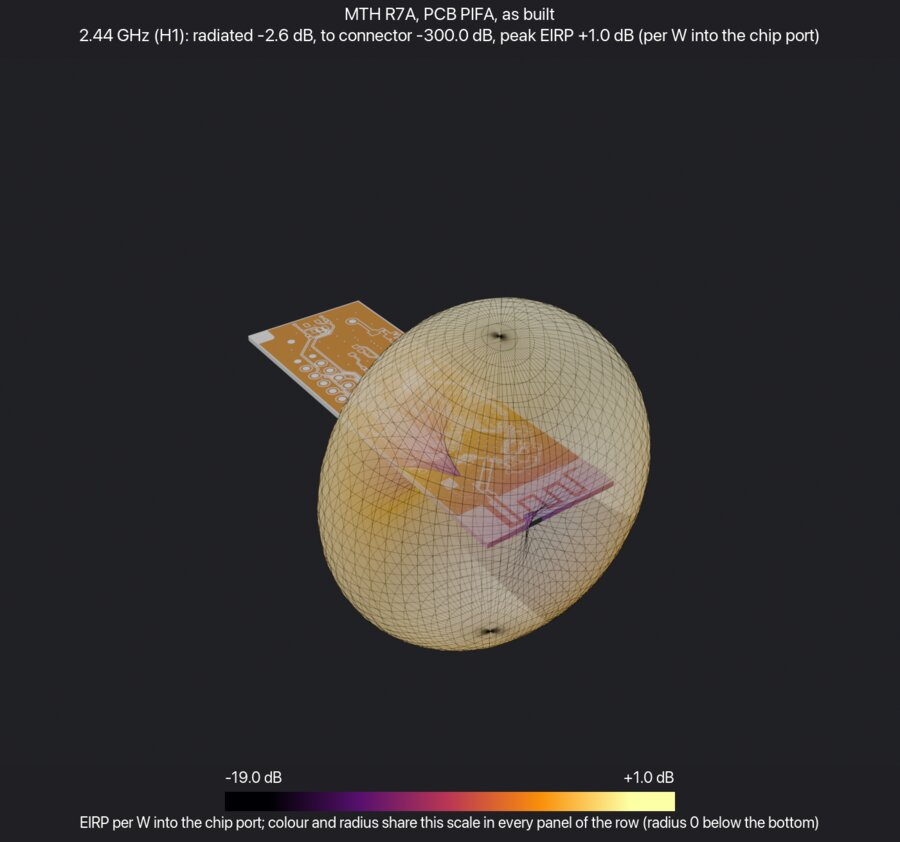
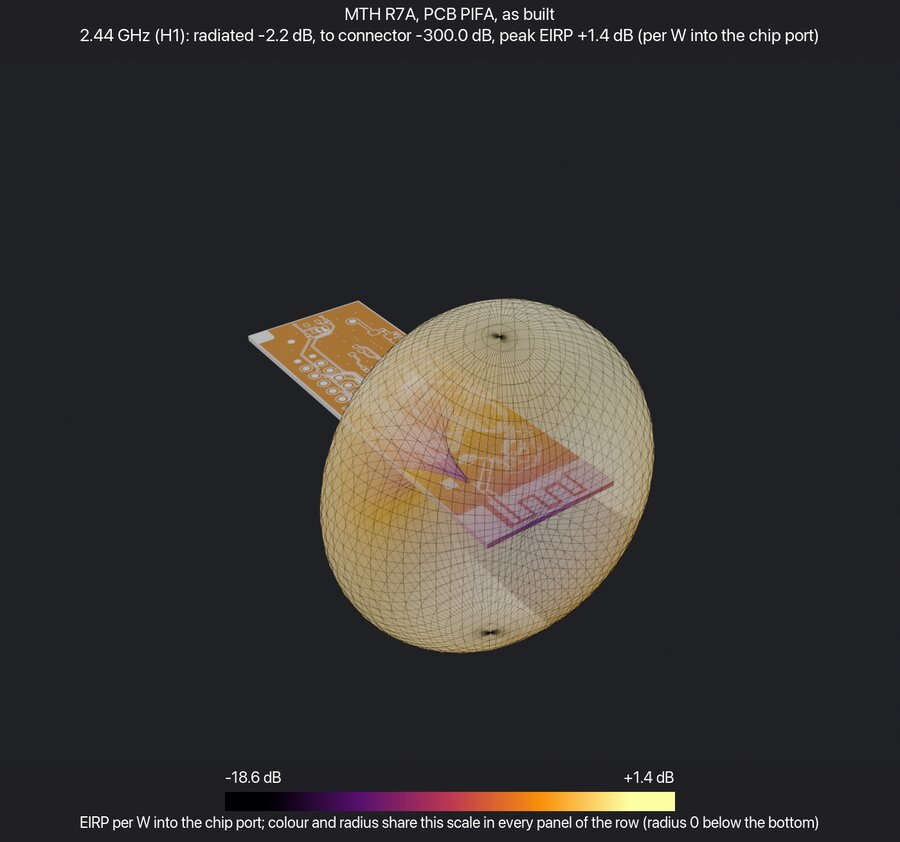
docs: MTH antenna from a 7-port re-run with the open end resolved
Re-ran the MTH R7A board with the fine ROI covering the whole PIFA, sub-cell
edge corrections and static mesh refinement (claude/fieldsolve-refine-octree
61a45cb), plus a 0.035 mm one-port mesh check. The antenna is about 50 ohm
and resonates near 2.45 GHz. As built scores -2.55 dB worst; the old fix
(L5 0R + C20 0.5p) is worse than as built. The cheapest fix is C59 0.6 pF
and C60 0.5 pF (-1.39 dB worst), the best two-part change on both meshes.
New polar and 3-D far-field plots; ladder_retune.py takes EM and OUT from
the environment.

diff --git a/tools/ladder_retune.py b/tools/ladder_retune.py
@@ -4,7 +4,8 @@ edit EM, PORT, CHOICES and BASE for another board.
 
 Run it from a working directory holding the EM run (EM below), Nordic's target network
 (nordic_ref_network.s2p) and Murata's S-parameter libraries unpacked as murata_sparams/lib_grm and
-murata_sparams/lib_lqg. FIELDSOLVE points at the binary (default: fieldsolve on PATH).
+murata_sparams/lib_lqg. FIELDSOLVE points at the binary (default: fieldsolve on PATH); EM at the EM run's
+Touchstone file (default mth7_board/sparams.s7p); OUT names the results file.
 
 Score per frequency: (1 - |G_t|^2) * P_rad / P_in, where G_t is the power-wave reflection against the chip's
 design load (Nordic's network, 35 - j35 ohm) and P_rad / P_in the share of the power entering the chip pin
@@ -15,7 +16,7 @@ that is radiated (ladder + antenna losses). The objective is the worst of 2.40 /
 import glob, json, math, os, random, subprocess, sys
 
 FS = os.environ.get('FIELDSOLVE', 'fieldsolve')
-EM = 'mth7_board/sparams.s7p'
+EM = os.environ.get('EM', 'mth7_board/sparams.s7p')
 PORT = 'CHIP'
 GRM = 'murata_sparams/lib_grm'; LQG = 'murata_sparams/lib_lqg'
 
@@ -128,5 +129,5 @@ if __name__ == '__main__':
         results.append((s[0], c, s))
         show(f'start {i}', c, s)
     results.sort(key=lambda x: -x[0])
-    json.dump([{'score_db': r[0], 'parts': r[1], 'per_f': r[2][1], 'harm': r[2][2]} for r in results], open('ladder_retune_results.json', 'w'), indent=1)
+    json.dump([{'score_db': r[0], 'parts': r[1], 'per_f': r[2][1], 'harm': r[2][2]} for r in results], open(os.environ.get('OUT', 'ladder_retune_results.json'), 'w'), indent=1)
     print(f'{calls[0]} cosim calls, {len(cache)} candidates')

diff --git a/docs/mth-antenna-findings.md b/docs/mth-antenna-findings.md
@@ -15,60 +15,57 @@ RF path, as populated:
 - **The IPEX connector U24** hangs off R69, which isn't fitted, so it isn't in the RF path.
 - **Parts:** the capacitors are Fenghua 0402CG and the inductors Murata LQG15HS.
 
-> **Correction (7 Nov 2026).** The EM run behind the first version of this note meshed the antenna's open
-> end coarsely. Its fine-mesh region started at x 145 mm, but the radiator arm runs from x 141.9 to 144.35,
-> so the open end fell in graded cells of 0.35-0.5 mm. A coarse open end acts electrically longer, so the
-> resonance came out too low.
+> **Revised (7 Nov 2026).** The first version of this note came from an EM run that meshed the antenna's
+> open end coarsely. Its fine region started at x 145 mm, but the radiator arm runs from x 141.9 to 144.35
+> mm, so the open end fell in graded cells of 0.35-0.5 mm. That made the antenna look electrically longer:
+> it seemed to resonate below 2.40 GHz, and the recommended fix (L5 → 0 Ω, C20 = 0.5 pF) was fitted to the
+> wrong antenna.
 >
-> Re-run with the fine region from x 141.5 (one port at C20, in the fast-mode work), the antenna resonates
-> near 2.43 GHz, not below 2.40 GHz. The old ROI reproduced the 7-port run to within about 1 Ω, so the ROI
-> alone explains the difference. The antenna and ladder results below have been corrected; superseded
-> values are marked.
->
-> The corrected values are still provisional:
->
-> - **No new 7-port EM run yet.** The ladder numbers come from the old 7-port result with the
->   better-resolved antenna swapped in at the feed. See [Retune](#retune) for the method and its error.
-> - **The mesh is not converged at the open end.** Going from about 0.4 mm cells to 0.1 mm to 0.05 mm
->   moved the antenna's worst-case score from −2.09 to −1.32 to −0.91 dB, and the trend is still moving.
->
-> A full 7-port re-run, with the open end resolved and a convergence check, is planned once the mesh
-> refinement work lands.
+> Everything below comes from a new 7-port run with the open end resolved and the sub-cell edge
+> corrections on. A 0.035 mm run checks the mesh. The old figures are listed under
+> [Superseded results](#superseded-results-coarse-open-end). **Don't fit the old fix: on the resolved
+> antenna it is worse than as built.**
 
 ## Summary
 
-- **The antenna is good.** In free space it resonates near 2.43 GHz, mid-band, and radiates about 87-91 %
-  of the power it accepts. (Superseded: "just below 2.40 GHz, 82-88 %".) The enclosure, solder mask and
-  battery will all pull the resonance down, so there is less length in hand for trimming than first
-  thought.
-- **The ladder isn't matched to it, but by less than first reported.** The configuration-7 values were
-  designed for a 50 Ω connector. On the PIFA (about 44 + j2 Ω at 2.44 GHz), the chip sees about 60 − j36 Ω
-  instead of its 35 − j35 Ω design load. The worst in-band case is about −2.5 to −3.1 dB, at 2.48 GHz.
-  (Superseded: 94 − j21 Ω, −4.6 dB.)
-- **The earlier fix, L5 → 0 Ω and C20 = 0.5 pF, is no longer the right one.** On the corrected antenna it
-  still helps at 2.48 GHz, but it pulls the chip impedance down to about 22-25 Ω. That makes it worse than
-  as built at 2.40 and 2.44 GHz, and its worst case is only −1.8 to −2.2 dB.
-- **Provisional cheapest fix: C59 and C60 → 0.6 pF, with L4, L5, R70 and C20 unchanged.** This is a
-  two-part value change with no new footprint. The chip sees about 61 − j37 / 43 − j36 / 30 − j28 Ω across
-  the band, close to its design load. The worst case improves from about −2.5 to −3.1 dB to about −1.0 to
-  −1.4 dB, and it beats the old fix at every frequency. Check it against the 7-port re-run before changing
-  the BOM.
-- **H2 suppression is weak.** The radiated H2 is −25.5 dB per watt into the chip pin (from the coarse
-  open-end run, not yet re-evaluated), against −29.7 dB for
+- **The antenna is good.** In free space it resonates near 2.45 GHz, mid-band, at about 50 Ω (49.6 − j2.4 Ω
+  at 2.44 GHz). It radiates 83-91 % of the power it accepts; the figure depends on the mesh (see
+  [Caveats](#caveats)). The enclosure, solder mask and battery will all pull the resonance down, so the
+  room left for trimming is smaller than first thought.
+- **The ladder transforms it too high.** The configuration-7 values were designed for a 50 Ω connector.
+  On this antenna the chip sees 57 − j51 / 59 − j39 / 73 − j37 Ω at 2.40 / 2.44 / 2.48 GHz, against its
+  35 − j35 Ω design load. The worst in-band case is −2.55 dB, at 2.48 GHz, or −2.9 dB with a real 0 Ω
+  jumper for R70.
+- **The cheapest fix: C59 → 0.6 pF and C60 → 0.5 pF**, with L4, L5 and R70 unchanged and C20 still not
+  fitted. That is two value changes and no new footprint.
+  - The chip then sees 63 − j39 / 43 − j43 / 30 − j38 Ω.
+  - The score is flat across the band: −1.39 / −1.28 / −1.21 dB, or −1.30 dB worst with a real 0 Ω
+    jumper. The worst case improves by 1.2-1.6 dB.
+  - On the finer-mesh antenna it is still the best two-part change.
+  - Cost: H2 is unchanged (−25.4 dB against −25.8) and H3 is 1.7 dB higher (−18.3 dB against −20.0).
+- **C59 0.7 pF with C60 0.6 pF is equivalent** with an ideal 0 Ω jumper (−1.37 dB worst). It drops to
+  −1.53 dB with a real one.
+- **Bigger retunes gain little.** The best search result that keeps the harmonics changes five parts for
+  the same −1.37 dB worst case. The best overall reaches −1.26 dB, but its H2 is 11 dB worse.
+- **H2 suppression is weak.** The radiated H2 is −25.8 dB per watt into the chip pin, against −29.7 dB for
   1BP as built and −49.3 dB for Nordic's reference layout. C59's ground pad is flooded into the top pour,
   the same deviation found on 1BP ([1bp-rf-findings.md](1bp-rf-findings.md)). The same fix should apply:
   an isolated return to VSS_PA. That fix hasn't been simulated here.
 - **Retune again after trimming.** The trimmed antenna in the enclosure will present a different feed
   impedance. Re-run the EM model on the trimmed copper, plus the enclosure if there is data, and repeat
-  the retune. The retune takes seconds; the EM run about 45 minutes.
+  the retune. The retune takes about a minute and the 7-port EM run about 30 minutes.
 
 ![RF section, top copper (left) and bottom (right): the diagonal ladder from the chip to R70, the PIFA feed and short above](img/mth7_rf_copper.jpg)
 
 ## Model
 
-- **The whole board** in free space, from the KiCad conversion's X2 Gerbers. 0.05 mm cells over the ROI
-  [145, 70, 159.6, 87.5], graded outside. That ROI misses the radiator's open end, x 141.9-144.35 (see
-  the correction at the top), with far field from a Huygens box in 15 mm of air.
+- **The whole board** in free space, from the KiCad conversion's X2 Gerbers, with far field from a
+  Huygens box in 15 mm of air.
+  - 0.05 mm cells over the ROI [141.5, 70, 159.6, 87.5], which takes in the whole antenna, graded
+    outside.
+  - Sub-cell edge corrections are on (`"edges": true`), as is the static mesh refinement
+    (`"mesh": {"no_slivers": true, "z_grade": 3.0}`).
+  - 12.1 M cells; all seven excitations took 30 minutes on an M3 Max.
 - **Stack-up:** one 0.73 mm FR4 core (εr 4.5, tan δ 0.015, wideband Debye fit) between 35 µm copper.
   The order notes give the finished thickness but not the laminate, so εr is assumed. Copper loss is
   included.
@@ -76,6 +73,7 @@ RF path, as populated:
   decoupling capacitors near the chip are modelled as shorts. `fieldsolve cosim` places measured parts
   on the ports: Murata GRM1555 for the Fenghua capacitors, which have no published data, and the exact
   LQG15HS inductors.
+- **Mesh check:** a one-port run at C20 at 0.035 mm (24.3 M cells), and the same at 0.05 mm.
 - **Not modelled:** solder mask, enclosure, battery. All three pull the resonance down.
 - **A solver bug was found and fixed along the way.** Every part here is rotated 45°, the chip included.
   Ports between pads that don't share a mesh line used to get a straight bridge that missed the far pad
@@ -85,19 +83,21 @@ RF path, as populated:
 
 ## The antenna alone
 
-Seen at the feed (the C20 pads), with R70 open:
+Seen at the feed (the C20 pads), with R70 and the chip open:
 
 | | 2.40 GHz | 2.44 GHz | 2.48 GHz |
 |---|---|---|---|
-| impedance | 59.8 − j8.8 Ω | 44.3 + j2.3 Ω | 33.4 + j13.2 Ω |
-| S11 (50 Ω) | −18.5 dB | −23.8 dB | −12.0 dB |
+| impedance, 0.05 mm (7-port) | 67.9 − j14.7 Ω | 49.6 − j2.4 Ω | 37.8 + j9.5 Ω |
+| S11 (50 Ω) | −14.2 dB | −32 dB | −15.1 dB |
+| radiation efficiency | 83 % | 82 % | 83 % |
+| impedance, 0.035 mm (one-port) | 74.7 − j11.2 Ω | 55.5 − j2.5 Ω | 42.1 + j7.5 Ω |
+| S11 (50 Ω) | −13.3 dB | −24.8 dB | −18.6 dB |
 | radiation efficiency | 91 % | 89 % | 87 % |
-| *superseded (open end coarse):* impedance | *37.5 + j5 Ω* | *28.5 + j16 Ω* | *21.9 + j26 Ω* |
-| *superseded:* S11 (50 Ω) | *−16.3 dB* | *−9.5 dB* | *−6.0 dB* |
-| *superseded:* radiation efficiency | *88 %* | *85 %* | *82 %* |
 
-The corrected values are from a one-port run at C20 (R70, CHIP and the ladder open), with the fine region
-from x 141.5. It is otherwise identical to the 7-port run.
+The one-port run at 0.05 mm reads 68.8 − j12.4 / 50.3 − j1.3 / 38.1 + j9.9 Ω, within about 2 Ω of the
+7-port. So the differences between the two meshes are a mesh effect, not a difference between the
+setups. The resonance (X = 0) sits near 2.45 GHz on both meshes. The finer mesh raises the resistance by
+about 6 Ω and the efficiency by up to 8 points (see [Caveats](#caveats)).
 
 ## As built, seen from the chip pin
 
@@ -107,20 +107,15 @@ antenna loss).
 
 | | 2.40 GHz | 2.44 GHz | 2.48 GHz |
 |---|---|---|---|
-| chip sees | 55 − j45 Ω | 60 − j36 Ω | 75 − j41 Ω |
-| \|Γ\| against the design load | 0.21 | 0.26 | 0.40 |
-| score | −1.1 dB | −1.5 to −1.7 dB | −2.5 to −3.1 dB |
-| *superseded:* chip sees | *68.5 − j19 Ω* | *94 − j21 Ω* | *111 − j67 Ω* |
-| *superseded:* score | *−2.0 dB* | *−3.1 dB* | *−4.6 dB* |
-
-The ranges are the two antenna-swap estimates described under [Retune](#retune).
-
-Treating R70 as a real 0 Ω jumper (about 0.4 nH) instead of an ideal short cost another 0.3-0.5 dB in the
-superseded model. This hasn't been re-evaluated.
+| chip sees | 57 − j51 Ω | 59 − j39 Ω | 73 − j37 Ω |
+| \|Γ\| against the design load | 0.26 | 0.25 | 0.38 |
+| radiated / accepted | 70 % (−1.6 dB) | 68 % (−1.7 dB) | 65 % (−1.9 dB) |
+| score | −1.9 dB | −2.0 dB | −2.6 dB |
+| score, R70 as a real 0 Ω jumper (0.4 nH) | −1.9 dB | −2.1 dB | −2.9 dB |
 
 ## Radiation pattern
 
-At 2.44 GHz the peak realized gain is +1.0 dBi, for a 50 Ω source at the chip pin. The 60 mm board is
+At 2.44 GHz the peak realized gain is +1.5 dBi, for a 50 Ω source at the chip pin. The 60 mm board is
 about half a wavelength long, so its ground currents radiate like a dipole along the board's long axis:
 
 - a near-omnidirectional ring of about −1 dBi (E_φ) in the plane across the board (x-z);
@@ -135,53 +130,9 @@ about half a wavelength long, so its ground currents radiate like a dipole along
 
 ![Far field at 2.44 GHz and at H2 and H3, on a shared scale per row](img/mth7_farfield_h1h2h3.jpg)
 
-Radiated harmonics, per watt into the chip pin (50 Ω): **H2 −25.5 dB, H3 −21.6 dB.**
-
-The pattern, gain and harmonic figures in this section are from the run with the coarse open end. The
-dipole-like board mode should not change much, but the numbers will move a little.
+Radiated harmonics, per watt into the chip pin (50 Ω), as built: **H2 −25.8 dB, H3 −20.0 dB.**
 
 ## Retune
-
-### Corrected (provisional)
-
-There is no 7-port EM run with the open end resolved yet. Instead, the old 7-port result (whose ladder
-region is meshed finely) was re-scored with the better-resolved antenna swapped in at the feed. The swap
-uses the change in antenna impedance between the old-ROI and widened-ROI one-port runs, and scales the
-antenna's radiated/accepted share the same way.
-
-There are two ways to make the swap, and neither is exact, because the antenna and ladder copper couple:
-
-- **series swap at the R70 port:** checked against the old far-field scores, it reads 0.3-0.5 dB
-  optimistic;
-- **shunt-admittance swap at the C20 node:** it reads 0-0.6 dB pessimistic.
-
-The two agree within 0.1 dB at 2.40 and 2.44 GHz and differ by up to 0.6 dB at 2.48 GHz. Both give the chip
-impedance exactly on the old model. The table gives series / shunt.
-
-| | chip sees, 2.40 / 2.44 / 2.48 GHz | 2.40 GHz | 2.44 GHz | 2.48 GHz |
-|---|---|---|---|---|
-| as built | 55 − j45 / 60 − j36 / 75 − j41 Ω | −1.1 / −1.1 dB | −1.5 / −1.7 | −2.5 / −3.1 |
-| **C59, C60 → 0.6 pF** | 61 − j37 / 43 − j36 / 30 − j28 Ω | −0.7 / −0.6 | −0.8 / −0.8 | −1.0 / −1.4 |
-| C59, C60 → 0.5 pF | 71 − j46 / 50 − j50 / 33 − j43 Ω | −0.9 / −0.8 | −1.0 / −1.0 | −0.9 / −1.3 |
-| C59 0.6 pF, C60 0.5 pF | 55 − j44 / 38 − j44 / 26 − j37 Ω | −0.6 / −0.6 | −0.8 / −0.8 | −1.0 / −1.4 |
-| 0.5p / 2.7n / 0.5p / 2.0n (four parts) | 56 − j24 / 45 − j37 / 29 − j38 Ω | −0.6 / −0.4 | −0.7 / −0.7 | −0.9 / −1.2 |
-| R70 → 1.8 pF series | 35 − j52 / 32 − j40 / 36 − j29 Ω | −1.3 / −1.2 | −1.3 / −1.2 | −1.5 / −1.8 |
-| L5 → 0 Ω | 34 − j59 / 29 − j48 / 30 − j37 Ω | −1.5 / −1.5 | −1.3 / −1.3 | −1.2 / −1.5 |
-| old fix: L5 → 0 Ω, C20 = 0.5 pF | 23 − j60 / 22 − j50 / 25 − j42 Ω | −2.2 / −1.8 | −1.8 / −1.5 | −1.5 / −1.5 |
-
-- **Why the fix changed:** the resolved antenna is close to 50 Ω and nearly real in band, not inductive.
-  The configuration-7 ladder transforms it too high, about 60 Ω real. Lighter shunt capacitors bring the
-  real part down to the design load's 35 Ω. Removing L5 now overshoots.
-- **Search:** a coordinate descent over the same part libraries (series swap) found worst cases of about
-  −0.8 to −0.9 dB, but only by changing three or four parts. Given the swap's error at 2.48 GHz, that is
-  not clearly better than the two-capacitor change.
-- **Harmonics:** not re-evaluated. The H2/H3 effect of lighter shunt capacitors needs the 7-port re-run
-  with far field.
-
-### Superseded: retune on the coarse open end
-
-The rest of this section is the original retune. It was fitted to the coarse antenna (resonance below
-2.40 GHz) and is kept for reference only.
 
 Every ladder position was varied over real part values:
 
@@ -190,48 +141,87 @@ Every ladder position was varied over real part values:
 - R70: a short, an inductor up to 4.7 nH, or a series capacitor;
 - C20: open or up to 2 pF.
 
-Each candidate was scored with `fieldsolve cosim` on the existing 7-port EM result, by the worst score
-of 2.40 / 2.44 / 2.48 GHz. The search was coordinate descent from 60 random starts plus every one- and
-two-part change from as built: about 25,000 candidates, taking seconds.
+Each candidate was scored with `fieldsolve cosim` (far field included) on the 7-port EM result, by its
+worst score over 2.40 / 2.44 / 2.48 GHz. The search was coordinate descent from 31 starts: about 13,000
+candidates in about a minute.
 
-| | 2.40 GHz | 2.44 GHz | 2.48 GHz | radiated H2 / H3 |
-|---|---|---|---|---|
-| as built | −2.0 dB | −3.1 dB | −4.6 dB | −25.5 / −21.6 dB |
-| **L5 → 0 Ω, C20 = 0.5 pF** | −1.6 | −1.4 | −1.6 | −25.9 / −21.6 |
-| same, with real 0 Ω jumpers (0.4 nH each) | −1.3 | −1.4 | −2.1 | −25.4 / −21.6 |
-| L5 → 0 Ω only | −1.3 | −1.4 | −1.8 | −24.6 / −21.6 |
-| best with harmonics no worse: 1.0p / 3.9n / 1.0p / 1.6n, R70 → 2.4 pF series, C20 1.1 pF | −1.6 | −1.4 | −1.6 | −25.1 / −21.1 |
-| best overall: 0.4p / short / 0.4p / short, R70 → 1.6 nH, C20 0.7 pF | −1.2 | −1.1 | −1.2 | −22.1 / −18.4 |
+| | chip sees, 2.40 / 2.44 / 2.48 GHz | 2.40 GHz | 2.44 GHz | 2.48 GHz | radiated H2 / H3 |
+|---|---|---|---|---|---|
+| as built | 57 − j51 / 59 − j39 / 73 − j37 Ω | −1.87 dB | −1.95 | −2.55 | −25.8 / −20.0 dB |
+| **C59 0.6 pF, C60 0.5 pF** | 63 − j39 / 43 − j43 / 30 − j38 Ω | −1.39 | −1.28 | −1.21 | −25.4 / −18.3 |
+| same, R70 as a real 0 Ω (0.4 nH) | | −1.30 | −1.22 | −1.23 | |
+| C59 0.7 pF, C60 0.6 pF | 56 − j34 / 39 − j33 / 28 − j26 Ω | −1.32 | −1.24 | −1.37 | −25.7 / −18.8 |
+| same, R70 as a real 0 Ω (0.4 nH) | | −1.28 | −1.26 | −1.53 | |
+| C59, C60 → 0.6 pF | 70 − j32 / 49 − j35 / 34 − j29 Ω | −1.53 | −1.32 | −1.26 | −25.5 / −18.3 |
+| C59, C60 → 0.5 pF | 79 − j37 / 56 − j47 / 38 − j43 Ω | −1.66 | −1.48 | −1.25 | −25.0 / −17.6 |
+| C59 0.8 pF, C60 0.7 pF | 52 − j30 / 37 − j25 / 29 − j17 Ω | −1.32 | −1.35 | −1.71 | −25.7 / −19.3 |
+| best with harmonics no worse: 0.9p / 4.3n / 0.7p / 1.2n, C20 0.3 pF | 47 − j45 / 34 − j36 / 26 − j26 Ω | −1.35 | −1.27 | −1.37 | −25.6 / −19.5 |
+| best overall: 0.5p / short / 0.4p / 3.6n, R70 → 2 pF series | 36 − j17 / 40 − j30 / 32 − j42 Ω | −1.26 | −1.19 | −1.25 | −14.6 / −17.5 |
+| L5 → 0 Ω | 39 − j66 / 32 − j52 / 32 − j41 Ω | −2.40 | −1.90 | −1.50 | −24.7 / −20.1 |
+| old fix: L5 → 0 Ω, C20 = 0.5 pF | 24 − j65 / 23 − j54 / 25 − j45 Ω | −3.03 | −2.37 | −1.75 | −26.2 / −19.9 |
 
-- **Why it works:** at 2.44 GHz the PIFA's feed is already inductive, and L5 added more inductance in
-  series. Removing it fixes most of the match, and C20 trims it across the band.
-- **It's robust:** C20 anywhere from 0.4 to 0.6 pF lands within 0.1-0.2 dB.
-- **What's left:** after the fix, about 1.2-1.4 dB is lost between the chip pin and radiation. About
-  0.7 dB of that is the antenna and board.
-- **Further retuning isn't worth it:** retunes beyond about −1.6 dB worst case trade H2 for ~0.4 dB.
+- **Why lighter shunt capacitors:** the antenna is close to 50 Ω and nearly resistive in band. The
+  configuration-7 ladder transforms it up to about 60-70 Ω real. Smaller shunt capacitors bring the real
+  part down to the design load's 35 Ω. Removing L5 instead leaves too much negative reactance, and adding
+  C20 makes that worse.
+- **Robust to the mesh:** the 0.035 mm antenna was swapped into the 7-port at the feed. This
+  approximation is good to a few tenths of a dB for a change this small; it reads 0.2-0.4 dB optimistic
+  against the direct scores. On that antenna:
+  - as built scores −2.0 to −2.5 dB worst;
+  - C59 0.6 pF with C60 0.5 pF scores −0.8 to −1.2 dB, still the best two-part change;
+  - C59 0.7 pF with C60 0.6 pF scores −1.0 to −1.3 dB;
+  - the old fix stays worse than as built at 2.40 GHz.
+- **What's left:** after the fix, about 1.1-1.2 dB is lost between the chip pin and radiation. About
+  0.8 dB of that is the antenna and board (0.4 dB on the finer mesh).
 
 ## Caveats
 
 - **Free-space values only.** No enclosure, solder mask or battery; the antenna will also be trimmed.
-- **The open end's mesh isn't converged** (see the correction at the top), and the corrected ladder
-  numbers use an antenna swap rather than a 7-port run.
+- **The mesh isn't fully converged.**
+  - From 0.05 to 0.035 mm, the antenna's resistance rises by about 6 Ω and its radiated share at
+    2.40 GHz by up to 8 points.
+  - The efficiency difference appears only with the edge corrections on: at 0.05 mm without them, the
+    antenna reads 91 / 89 / 87 %, the same as 0.035 mm with them. So the edge-corrected 0.05 mm run may
+    overstate copper loss near the antenna. The absolute scores above may then be 0.3-0.5 dB
+    pessimistic.
+  - The ranking of the ladder options is the same on both meshes.
 - **The Fenghua capacitors are modelled with Murata data.**
 - **The chip's optimum load** is taken as Nordic's measured target. How far off it is in band is
   examined in [1bp-rf-findings.md](1bp-rf-findings.md).
 - **The harmonic levels** are per watt into a 50 Ω port. The chip's real harmonic source impedance is
   unknown, and the model's levels near the nulls are mesh-sensitive by a few dB.
 
+## Superseded results (coarse open end)
+
+From the first EM run, with the fine region starting at x 145 mm, so the antenna's open end was coarse.
+Kept for reference only.
+
+| | 2.40 GHz | 2.44 GHz | 2.48 GHz |
+|---|---|---|---|
+| antenna alone | 37.5 + j5 Ω | 28.5 + j16 Ω | 21.9 + j26 Ω |
+| as built, chip sees | 68.5 − j19 Ω | 94 − j21 Ω | 111 − j67 Ω |
+| as built, score | −2.0 dB | −3.1 dB | −4.6 dB |
+| L5 → 0 Ω, C20 = 0.5 pF (the old recommendation), score | −1.6 dB | −1.4 dB | −1.6 dB |
+
+On that antenna the feed looked inductive (resonance below 2.40 GHz), so removing L5 and adding C20 seemed
+to help. That conclusion doesn't hold for the resolved antenna. A provisional version of this note
+estimated the correction by swapping the resolved antenna into this run. The direct 7-port run above
+replaces it, and it reached the same recommended direction.
+
 ## Reproducing
 
-- **EM:** a `fieldsolve run` spec with `"gerbers"` the KiCad conversion's `fabrication/gerbers`,
-  `"coords": "kicad"`, `"extent": "board"`, ROI `[141.5, 70, 159.6, 87.5]` (the first run used x0 = 145,
-  which leaves the antenna's open end coarse), cell 0.05, air 15 mm,
-  `"dielectrics": [{"t": 0.73, "er": 4.5, "tand": 0.015}]`, and wideband loss with copper. Ports
-  `CHIP` U12.H23→U12.F23, `C59` .2→.1, `L4` .1→.2, `C60` .2→.1, `L5` .1→.2, `R70` .2→.1, `C20` .1→.2.
-  Decoupling shorts on C5-C8, C12, C15, C16, C23, C24, C29, C30, C40. Far field at 2.40/2.44/2.48/4.88/
-  7.32 GHz.
+- **EM:** the keys `"edges"` and `"mesh"` are on branch `claude/fieldsolve-refine-octree` (built here at
+  61a45cb); without them the run still works, but the results differ (see Caveats). The spec:
+  - `"gerbers"` the KiCad conversion's `fabrication/gerbers`, `"coords": "kicad"`, `"extent": "board"`;
+  - ROI `[141.5, 70, 159.6, 87.5]`, which must cover all antenna copper; cell 0.05; air 15 mm;
+  - `"edges": true`, `"mesh": {"no_slivers": true, "z_grade": 3.0}`;
+  - `"dielectrics": [{"t": 0.73, "er": 4.5, "tand": 0.015}]`, and wideband loss with copper;
+  - ports `CHIP` U12.H23→U12.F23, `C59` .2→.1, `L4` .1→.2, `C60` .2→.1, `L5` .1→.2, `R70` .2→.1,
+    `C20` .1→.2;
+  - decoupling shorts on C5-C8, C12, C15, C16, C23, C24, C29, C30, C40;
+  - far field at 2.40/2.44/2.48/4.88/7.32 GHz.
 - **Cosim:** `keep` `["CHIP"]` with `"target": "nordic_ref_network.s2p"` and `"farfield": true`. For the
   antenna alone, keep `["C20"]` with R70 and CHIP open.
-- **Retune:** `tools/ladder_retune.py` (the MTH version: coordinate descent over part libraries,
-  scored as above).
+- **Retune:** `EM=<run>/sparams.s7p FIELDSOLVE=<binary> python3 tools/ladder_retune.py 6` (coordinate
+  descent over the part libraries, scored as above).
 - **Plots:** `tools/polar_farfield.py` and `tools/render_farfield_panels.py`.

diff --git a/docs/fieldsolve-rf-roadmap.md b/docs/fieldsolve-rf-roadmap.md
@@ -81,7 +81,7 @@ Outputs per frontend:
   (`tools/polar_farfield.py`), 3-D patterns, and a ladder retune over real part values driven by `cosim`
   (`tools/ladder_retune.py`). Write-up: [mth-antenna-findings.md](mth-antenna-findings.md).
   Lesson from it: the fine ROI must cover every piece of antenna copper. The first run's ROI missed the
-  radiator's open end, which lowered the resonance by about 1.5 % and changed the recommended ladder fix.
+  radiator's open end, which lowered the resonance by about 3 % and changed the recommended ladder fix.
   Until static refinement places fine cells by net automatically, check the ROI against the antenna's
   extent.
 - **In an enclosure.** Add the housing STL (A2/A3), battery and display as metal, screws, and the other PCB.
